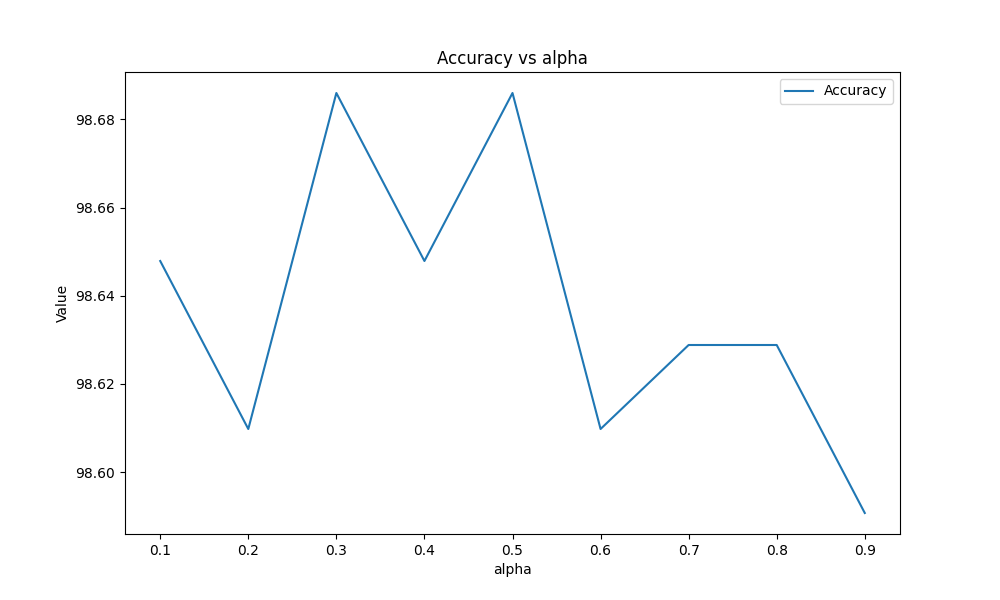
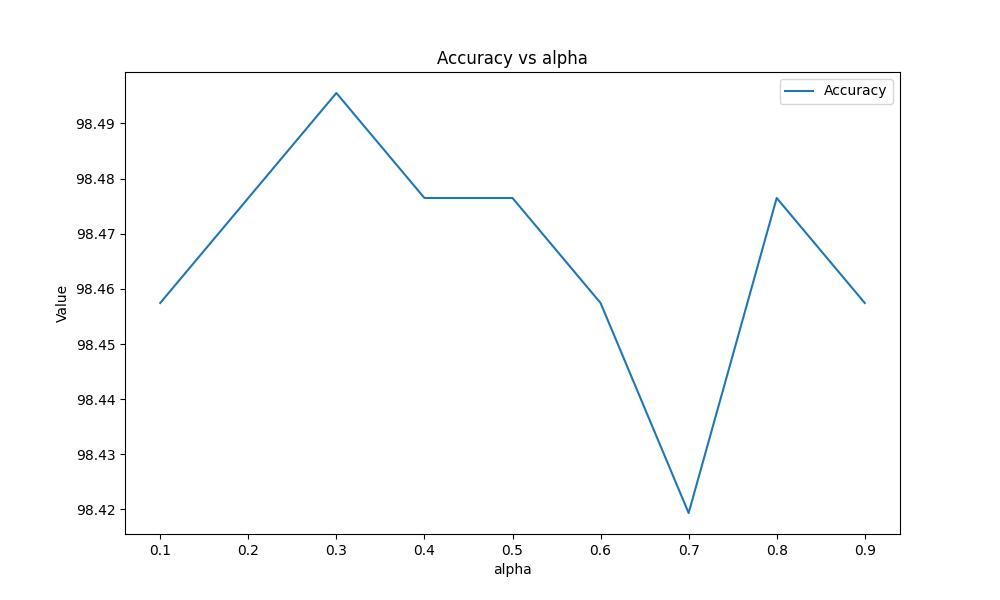
补充参数测试

diff --git a/param_test.py b/param_test.py
@@ -369,20 +369,20 @@ if __name__ == '__main__':
     # 划分训练集和测试集
     train_X, test_X, train_Y, test_Y = train_test_split(trainX, trainY, test_size=0.2, random_state=42)
 
-    # set_default()
-    # test_LSTM_units(test_Y)
-    #
-    # set_default()
-    # test_conv_filters(test_Y)
-    #
-    # set_default()
-    # test_epoch(test_Y)
-    #
-    # set_default()
-    # test_dropout(test_Y)
+    set_default()
+    test_LSTM_units(test_Y)
+
+    set_default()
+    test_conv_filters(test_Y)
+
+    set_default()
+    test_epoch(test_Y)
+
+    set_default()
+    test_dropout(test_Y)
 
     set_default()
     test_temperature(test_Y)
 
-    # set_default()
-    # test_alpha(test_Y)
+    set_default()
+    test_alpha(test_Y)

diff --git a/README.md b/README.md
@@ -7,7 +7,7 @@
 该实验其实有一个比较不错的发现，即：即使非常小的模型对于开盘、收盘、高点、低点的预测值与真值差距可能很大，但是涨跌准确率却可以达到非常高的程度（接近98%），即预测涨跌是非常简单的。
 
 ## todo
-- [ ] 完善实验
+- [x] 完善实验
 
 - [x] 迁移readme到tf2
 - [x] 处理不同模块间同名变量
